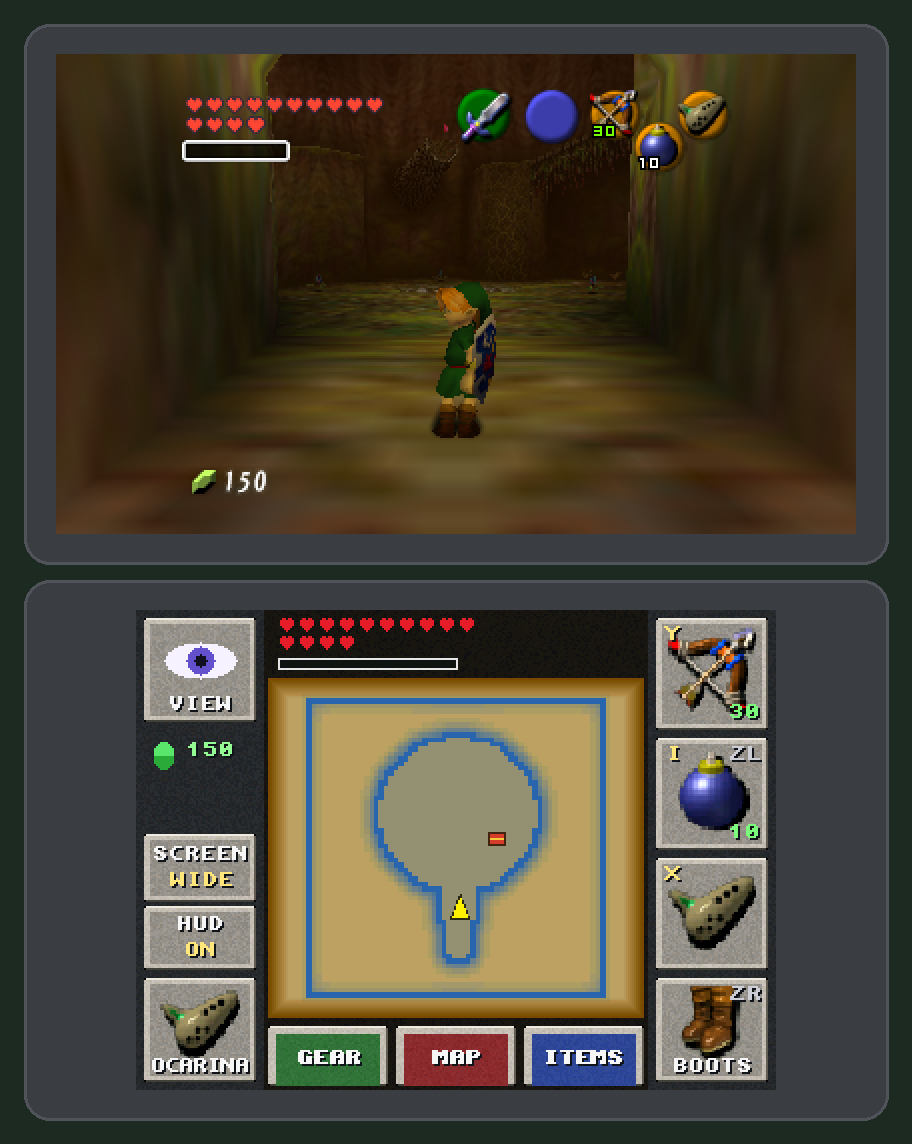
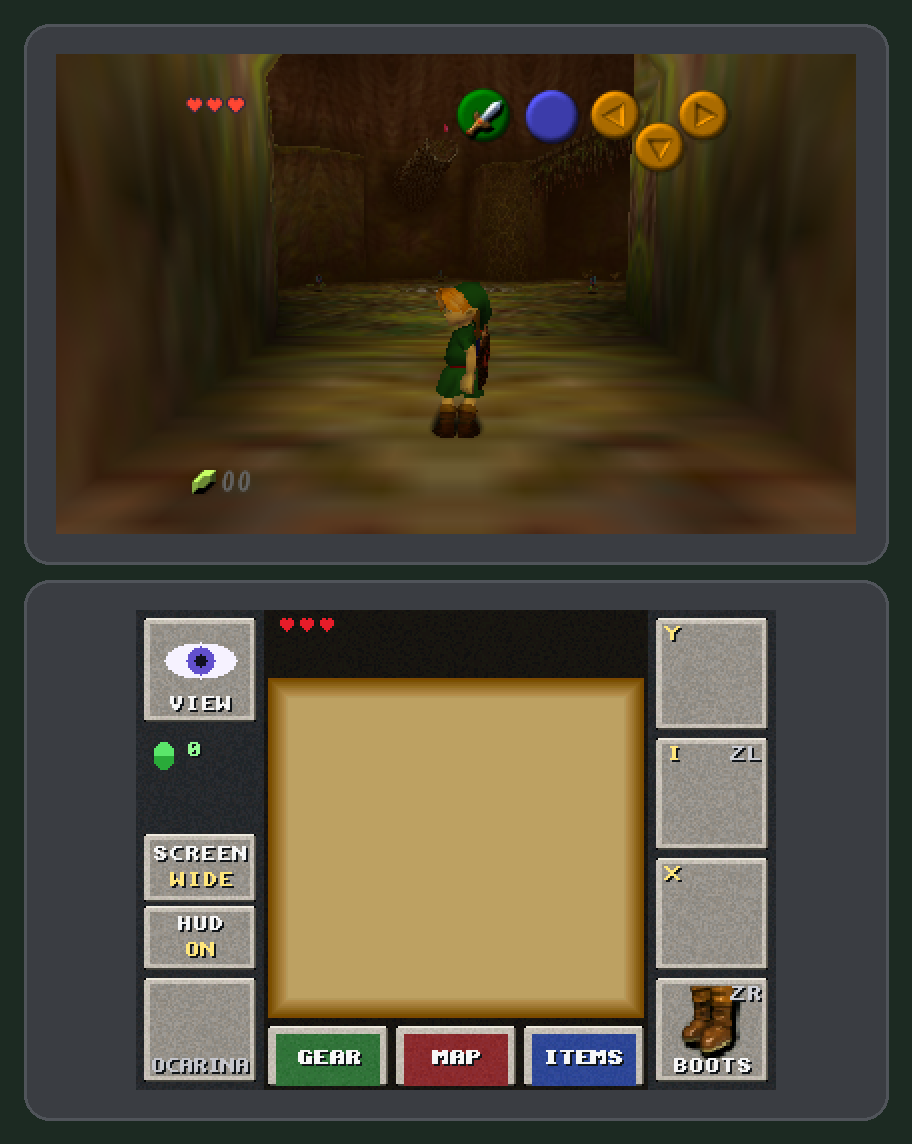
README screenshots

diff --git a/tools/make_showcase.py b/tools/make_showcase.py
@@ -1,7 +1,8 @@
 #!/usr/bin/env python3
 """make_showcase.py - README screenshots (both screens) taken from the running port in Azahar.
 
-For each shot: builds the port booting straight into an entrance (GAME_EXTRA=-DPORT_START_ENTRANCE, the debug save),
+For each shot: builds the port booting straight into an entrance (GAME_EXTRA=-DPORT_START_ENTRANCE, the debug save's
+story flags with a new file's inventory: -DPORT_START_FRESH, only the Kokiri Sword and the Deku Shield),
 runs it in Azahar with the top screen's shown buffer (settings flipdump=1) and the bottom screen (sdmc:/3ds/oot/
 capture_bottom) dumped, and composes both screens in a console-style frame. The normal build is restored at the end.
 
@@ -34,7 +35,8 @@ def sh(cmd, **kw):
 
 def build(entrance, age):
     # (noon: the debug save starts at midnight)
-    extra = ("-DPORT_START_ENTRANCE=0x%03X -DPORT_START_AGE=%d -DPORT_START_DAYTIME=0x8000" % (entrance, age)
+    extra = ("-DPORT_START_ENTRANCE=0x%03X -DPORT_START_AGE=%d -DPORT_START_DAYTIME=0x8000 -DPORT_START_FRESH"
+             % (entrance, age)
              if entrance is not None else "")
     sh("touch src/overlays/gamestates/ovl_opening/z_opening.c")
     r = sh("make -f Makefile.3ds -j8 cci GAME_EXTRA='%s' > /dev/null" % extra)
@@ -65,6 +67,14 @@ def bottom_image(path):
         im = Image.frombytes("RGB", (w, h), px[:w * h * bpp], "raw", "BGR" if bpp == 3 else "BGRX")
     im = im.transpose(Image.Transpose.ROTATE_90)
     return im.resize((640, 480), Image.NEAREST)
+
+
+def dumps_ok(tp, bp):
+    """both dumps complete (the port rewrites them at every perf report; Azahar may be stopped mid-write)"""
+    if not (os.path.exists(tp) and os.path.exists(bp)) or os.path.getsize(tp) < 12 or os.path.getsize(bp) < 12:
+        return False
+    data = open(tp, "rb").read(12)
+    return os.path.getsize(tp) >= 12 + struct.unpack("<III", data)[2]
 
 
 def compose(top, bottom):
@@ -98,16 +108,19 @@ def main():
                 continue
             print("== %s (entrance 0x%03X)" % (name, entrance), flush=True)
             build(entrance, age)
-            for f in ("flip_shown.bin", "bottom_fb.bin"):
-                if os.path.exists(os.path.join(SD, f)):
-                    os.remove(os.path.join(SD, f))
-            open(settings, "w").write("widescreen=1\nhud=1\nprof=1\nflipdump=1\n")
-            open(os.path.join(SD, "capture_bottom"), "w").close()
-            sh("tools/emu.sh boot %d > /dev/null 2>&1" % args.secs)
-            os.remove(os.path.join(SD, "capture_bottom"))
             tp, bp = os.path.join(SD, "flip_shown.bin"), os.path.join(SD, "bottom_fb.bin")
-            if not (os.path.exists(tp) and os.path.exists(bp)):
-                print("   no dump (flip_shown.bin / bottom_fb.bin missing)")
+            for attempt in range(3):  # a run stopped while a dump was being rewritten: again, a little longer
+                for f in (tp, bp):
+                    if os.path.exists(f):
+                        os.remove(f)
+                open(settings, "w").write("widescreen=1\nhud=1\nprof=1\nflipdump=1\n")
+                open(os.path.join(SD, "capture_bottom"), "w").close()
+                sh("tools/emu.sh boot %d > /dev/null 2>&1" % (args.secs + 7 * attempt))
+                os.remove(os.path.join(SD, "capture_bottom"))
+                if dumps_ok(tp, bp):
+                    break
+            else:
+                print("   no complete dump (flip_shown.bin / bottom_fb.bin)")
                 continue
             out = os.path.join(OUT, name + ".png")
             compose(top_image(tp), bottom_image(bp)).save(out, optimize=True)

diff --git a/src/overlays/gamestates/ovl_opening/z_opening.c b/src/overlays/gamestates/ovl_opening/z_opening.c
@@ -13,6 +13,10 @@
 #include "save.h"
 #include "sram.h"
 #include "view.h"
+#ifdef PORT_START_FRESH
+#include "array_count.h"
+#include "inventory.h"
+#endif
 /* #include "file_select_state.h"  // restore for PORT_FS_TEST */
 
 void TitleSetup_SetupTitleScreen(TitleSetupState* this) {
@@ -40,6 +44,35 @@ void TitleSetup_SetupTitleScreen(TitleSetupState* this) {
 #endif
 #ifdef PORT_START_AGE
     gSaveContext.save.linkAge = PORT_START_AGE; // tools/statediff scene tour: LINK_AGE_ADULT (0) / CHILD (1)
+#endif
+#ifdef PORT_START_FRESH
+    {
+        // tools/make_showcase.py: a new file's inventory (3 hearts, no items, no magic) with only the Kokiri Sword
+        // and the Deku Shield, as early in the game; the debug save's story flags and name stay (no first-visit
+        // cutscenes in the shots)
+        static SaveInfo sDebugInfo;
+        int i;
+
+        sDebugInfo = gSaveContext.save.info;
+        Sram_InitNewSave();
+        for (i = 0; i < ARRAY_COUNT(sDebugInfo.eventChkInf); i++) {
+            gSaveContext.save.info.eventChkInf[i] = sDebugInfo.eventChkInf[i];
+        }
+        for (i = 0; i < ARRAY_COUNT(sDebugInfo.itemGetInf); i++) {
+            gSaveContext.save.info.itemGetInf[i] = sDebugInfo.itemGetInf[i];
+        }
+        for (i = 0; i < ARRAY_COUNT(sDebugInfo.infTable); i++) {
+            gSaveContext.save.info.infTable[i] = sDebugInfo.infTable[i];
+        }
+        for (i = 0; i < ARRAY_COUNT(sDebugInfo.playerData.playerName); i++) {
+            gSaveContext.save.info.playerData.playerName[i] = sDebugInfo.playerData.playerName[i];
+        }
+        gSaveContext.save.info.inventory.equipment |= OWNED_EQUIP_FLAG(EQUIP_TYPE_SWORD, EQUIP_INV_SWORD_KOKIRI) |
+                                                      OWNED_EQUIP_FLAG(EQUIP_TYPE_SHIELD, EQUIP_INV_SHIELD_DEKU);
+        gSaveContext.save.info.equips.buttonItems[0] = ITEM_SWORD_KOKIRI;
+        Inventory_ChangeEquipment(EQUIP_TYPE_SWORD, EQUIP_VALUE_SWORD_KOKIRI);
+        Inventory_ChangeEquipment(EQUIP_TYPE_SHIELD, EQUIP_VALUE_SHIELD_DEKU);
+    }
 #endif
     SET_NEXT_GAMESTATE(&this->state, Play_Init, PlayState);
 #else
